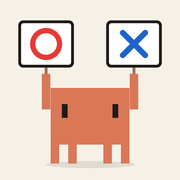
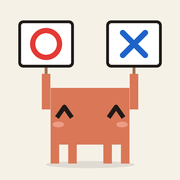
アイコン：Clawd を笑顔（^ ^）にして、ほっぺを足す

Changed region(s): [[0.5833, 0.5556, 0.7222, 0.7222], [0.2778, 0.5556, 0.4167, 0.7222]]

diff --git a/sw.js b/sw.js
@@ -1,6 +1,6 @@
 // 電波がなくても開けるように、画面とカードを取っておく。
 // 先にネットを見に行き、つながらないときだけ取っておいたものを使う（作り直しがすぐ反映されるように）。
-const CACHE = 'ankicard-v5';
+const CACHE = 'ankicard-v6';
 const SHELL = ['./', 'index.html', 'app.js', 'stats.js', 'manifest.webmanifest', 'icon.svg', 'icon-180.png', 'icon-512.png'];
 self.addEventListener('install', e => {
   e.waitUntil(caches.open(CACHE).then(c => c.addAll(SHELL)).then(() => self.skipWaiting()));

diff --git a/make_icons.py b/make_icons.py
@@ -14,7 +14,11 @@ BOARD = '#FFFFFF'
 # Clawd（元の絵を 0.42 倍）
 body = (144, 250, 369, 412)
 legs = [(x, 397, x + 25, 466) for x in (144, 194, 294, 344)]
-eyes = [(176, 296, 193, 336), (320, 296, 337, 336)]
+# 目は笑顔（^ ^）。元の「できた！」の目を 0.42 倍
+smile = [[(162, 334), (183, 304), (204, 334)], [(309, 334), (330, 304), (351, 334)]]
+smile_w = 13
+BLUSH = '#EE9C86'
+cheeks = [(150, 346, 182, 362), (331, 346, 363, 362)]  # ほっぺ
 arms = [(119, 210, 144, 312), (369, 210, 394, 312)]
 # 札（左が ○、右が ×）
 signs = [(56, 62, 206, 188), (306, 62, 456, 188)]
@@ -39,7 +43,10 @@ def svg():
     parts += [r(a, BODY) for a in arms]
     parts += [r(l, BODY) for l in legs]
     parts.append(r(body, BODY))
-    parts += [r(e, INK) for e in eyes]
+    for c in cheeks:
+        parts.append(f'<ellipse cx="{(c[0]+c[2])/2}" cy="{(c[1]+c[3])/2}" rx="{(c[2]-c[0])/2}" ry="{(c[3]-c[1])/2}" fill="{BLUSH}"/>')
+    for pts in smile:
+        parts.append('<polyline points="' + ' '.join(f'{x},{y}' for x, y in pts) + f'" fill="none" stroke="{INK}" stroke-width="{smile_w}" stroke-linecap="round" stroke-linejoin="round"/>')
     return ('<svg xmlns="http://www.w3.org/2000/svg" viewBox="0 0 512 512" shape-rendering="geometricPrecision">'
             + ''.join(parts) + '</svg>\n')
 
@@ -68,8 +75,10 @@ def png(size):
             d.ellipse(sc((p[0] - rr, p[1] - rr, p[0] + rr, p[1] + rr)), fill=BLUE)
     for b in arms + legs + [body]:
         d.rectangle(sc((b[0], b[1], b[2] - 1, b[3] - 1)), fill=BODY)
-    for e in eyes:
-        d.rectangle(sc((e[0], e[1], e[2] - 1, e[3] - 1)), fill=INK)
+    for pts in smile:
+        d.line([v * k for p in pts for v in p], fill=INK, width=smile_w * k, joint='curve')
+    for c in cheeks:
+        d.ellipse(sc(c), fill=BLUSH)
     return im.resize((size, size), Image.LANCZOS)
 
 
